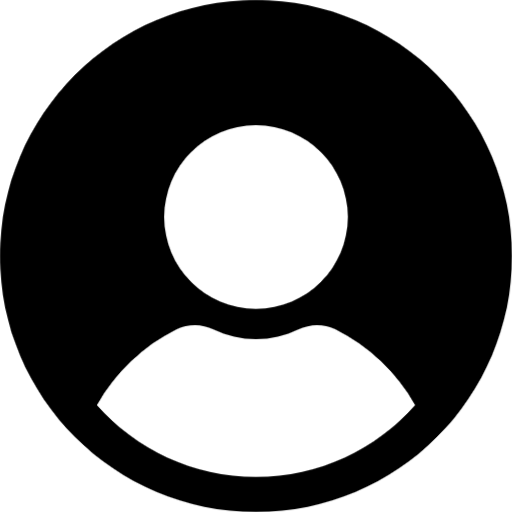
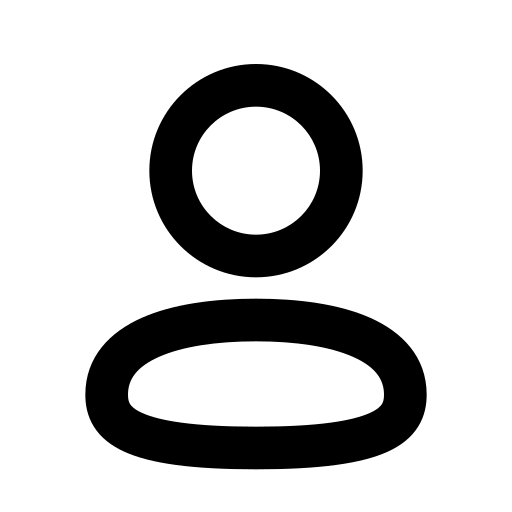
Side Menu

diff --git a/lib/screens/main/components/side_menu.dart b/lib/screens/main/components/side_menu.dart
@@ -16,42 +16,42 @@ class SideMenu extends StatelessWidget {
           ),
           DrawerListTile(
             title: "Dashboard",
-            svgSrc: "assets/icons/menu_dashboard.svg",
+            svgSrc: "assets/icons/dashboard.svg",
             press: () {},
           ),
           DrawerListTile(
-            title: "Transaction",
-            svgSrc: "assets/icons/menu_tran.svg",
+            title: "User",
+            svgSrc: "assets/icons/user.svg",
             press: () {},
           ),
           DrawerListTile(
-            title: "Task",
-            svgSrc: "assets/icons/menu_task.svg",
+            title: "Donations",
+            svgSrc: "assets/icons/donation.svg",
             press: () {},
           ),
           DrawerListTile(
-            title: "Documents",
-            svgSrc: "assets/icons/menu_doc.svg",
+            title: "Auto Collect",
+            svgSrc: "assets/icons/autocollect.svg",
             press: () {},
           ),
           DrawerListTile(
-            title: "Store",
-            svgSrc: "assets/icons/menu_store.svg",
+            title: "Products",
+            svgSrc: "assets/icons/products.svg",
             press: () {},
           ),
           DrawerListTile(
-            title: "Notification",
-            svgSrc: "assets/icons/menu_notification.svg",
+            title: "Blogs",
+            svgSrc: "assets/icons/blogs.svg",
             press: () {},
           ),
           DrawerListTile(
             title: "Profile",
-            svgSrc: "assets/icons/menu_profile.svg",
+            svgSrc: "assets/icons/edit.svg",
             press: () {},
           ),
           DrawerListTile(
             title: "Settings",
-            svgSrc: "assets/icons/menu_setting.svg",
+            svgSrc: "assets/icons/settings.svg",
             press: () {},
           ),
         ],

diff --git a/README.md b/README.md
@@ -1,25 +1,9 @@
-# Flutter Responsive Admin/Dashboard Template
+# PDM-Flutter Responsive Admin/Dashboard 
 
-## [Live Preview](https://abuanwar072.github.io/Flutter-Responsive-Admin-Panel-or-Dashboard/#/)
-
-I've created a step-by-step video tutorial to guide you through the process of building this responsive admin panel. **[Watch it on YouTube](https://youtu.be/_uOgXpEHNbc)**
-
-Flutter V2.\* has officially introduced web support on its stable branch. Today, I'm excited to present a Flutter-based Admin panel, often referred to as a dashboard UI. This Flutter dashboard template, which you can find on GitHub, is a comprehensive solution for your app's backend needs. It comes with a wide array of features including charts, tables, and neatly designed info cards.
-
-This flutter dashboard library is versatile; it's tailored to work seamlessly on the Web, macOS app, tablets, and both Android and iOS phones. The principle 'code once, run everywhere' truly comes to life with this.
-
-**Packages we are using:**
-
-- flutter_svg: [link](https://pub.dev/packages/flutter_svg)
-- google_fonts: [link](https://pub.dev/packages/google_fonts)
-- provider: [link](https://pub.dev/packages/provider)
-
-**Fonts**
-
-- Poppins [link](https://fonts.google.com/specimen/Poppins)
+Sprint 2 Flutter
 
 ### Responsive Admin Panel or Dashboard Final UI Preview
 
-![Preview](/gif.gif)
+![Preview](/dashboard.png)
 
-![App UI](/ui.png)
+![App UI](/Side-menu.png)
